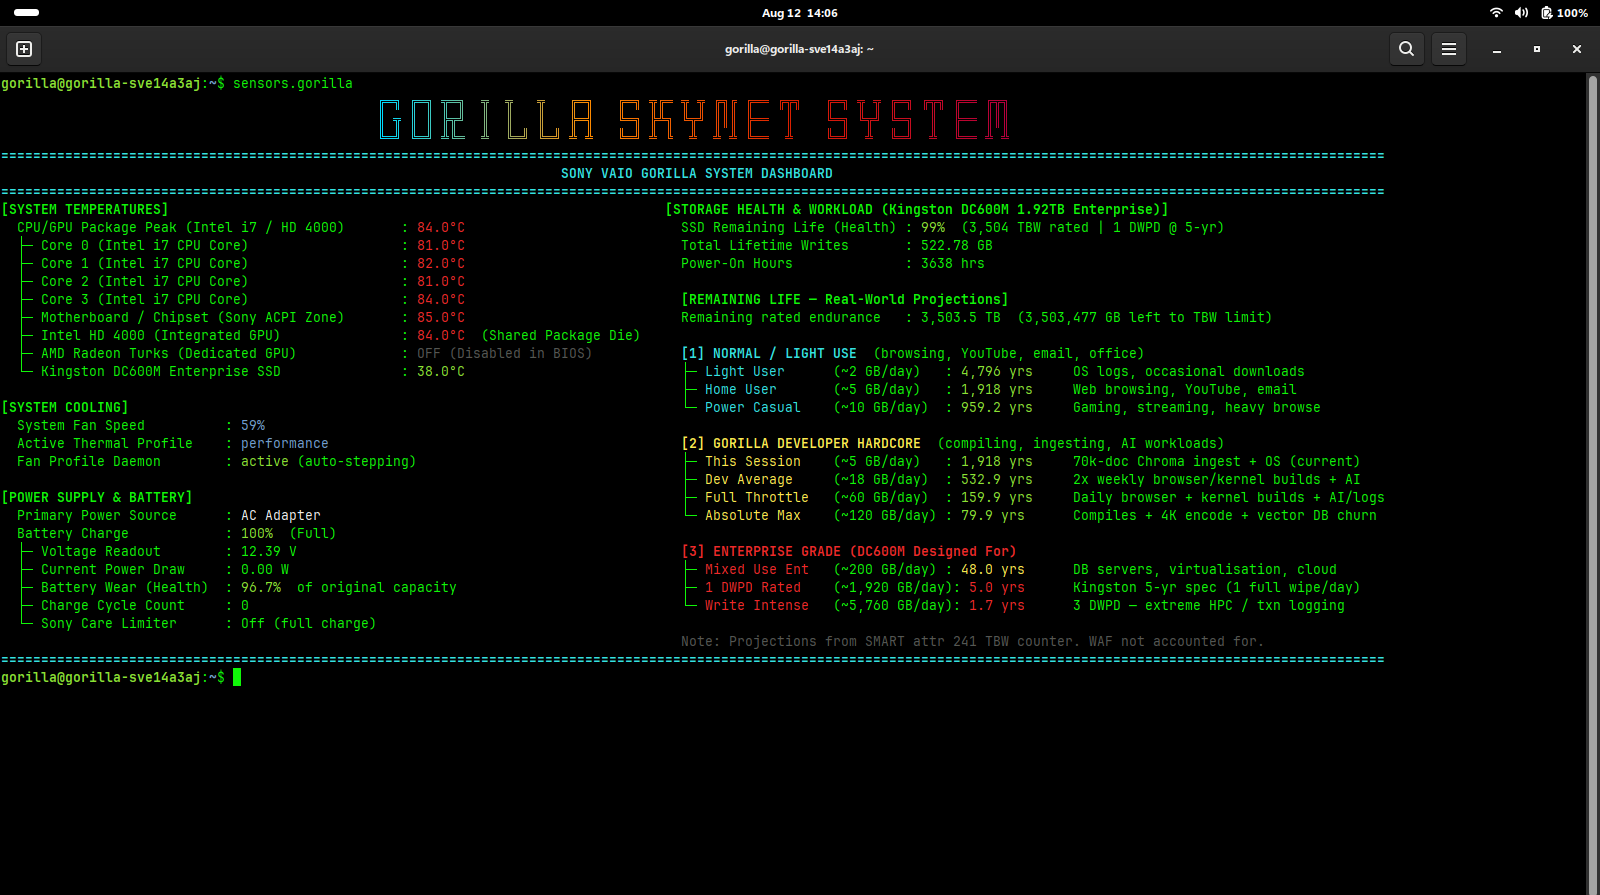
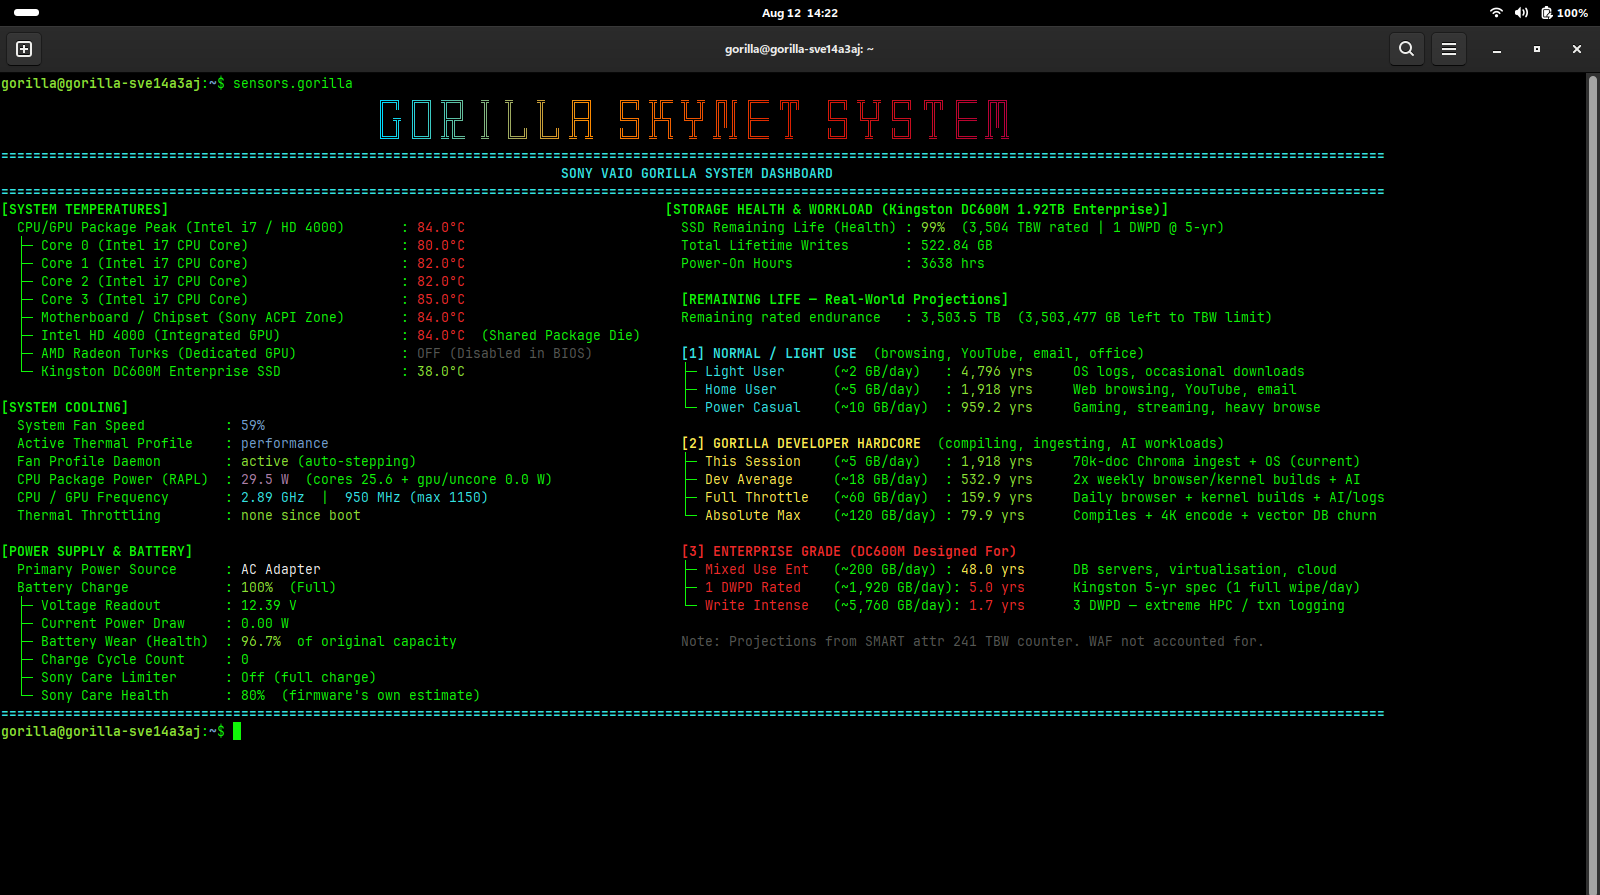
Update screenshot: RAPL power, frequencies, throttle, care health visible; click-through to full resolution

Changed region(s): [[0.0, 0.5128, 0.8438, 0.8447], [0.2188, 0.5128, 0.3438, 0.5732]]

diff --git a/README.md b/README.md
@@ -2,7 +2,9 @@
 
 > *A zero-dependency Python 3 terminal dashboard that maps every readable hardware sensor on a Sony VAIO SVE14A3AJ (and any similar Linux machine) into a single, beautiful, colour-coded live readout.*
 
-![sensors.gorilla — the full dashboard in one maximized window: banner on top, temperatures/cooling/power left, SSD health and lifetime projections right](dashboard.png)
+[![sensors.gorilla — the full dashboard in one maximized window: banner on top, temperatures/cooling/power/RAPL wattage/throttle status left, SSD health and lifetime projections right](dashboard.png)](dashboard.png)
+
+*Click the image for full resolution — every value pixel-sharp at 1:1.*
 
 ---
 
